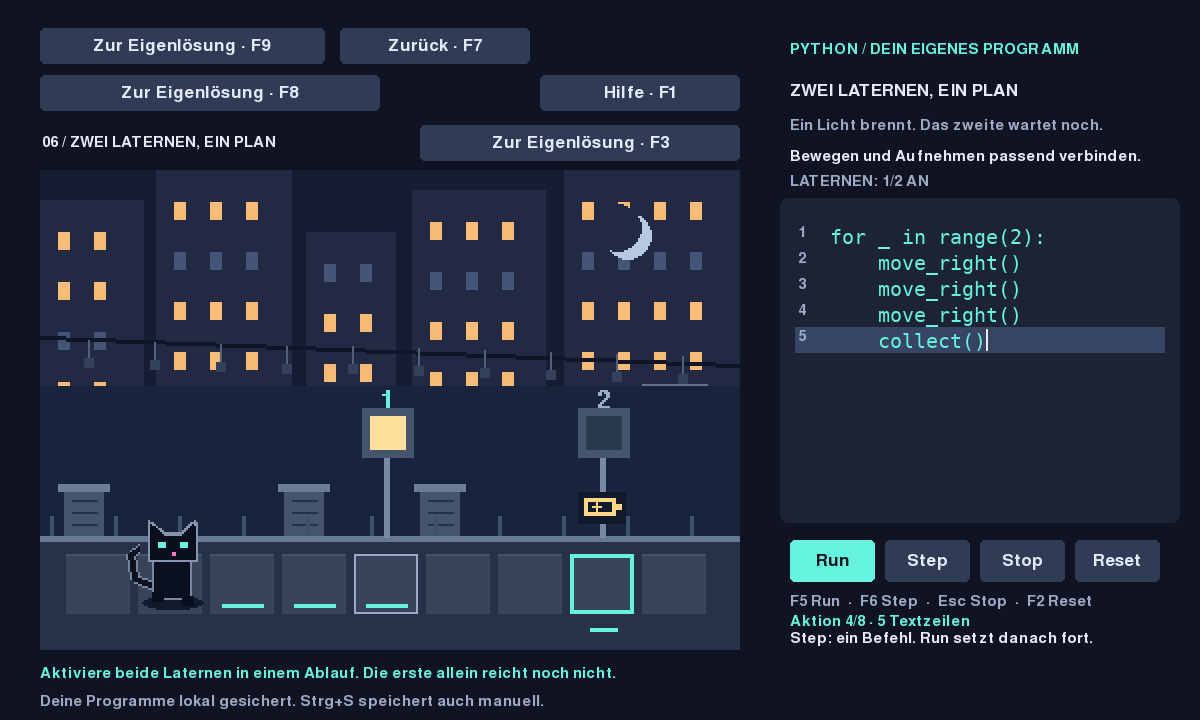
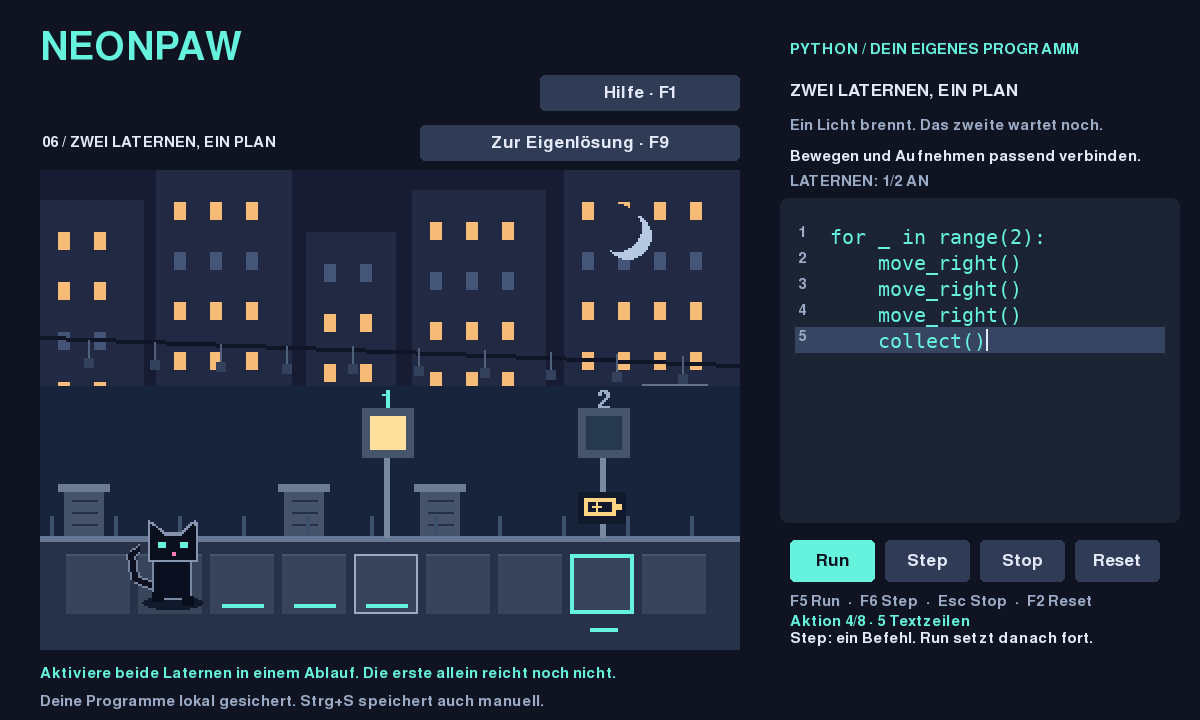
fix: simplify lantern navigation and ignore invisible controls

Changed region(s): [[0.0308, 0.0306, 0.4625, 0.1528], [0.4008, 0.1833, 0.555, 0.2139]]

diff --git a/neonpaw/ui/app.py b/neonpaw/ui/app.py
@@ -57,7 +57,7 @@ class App:
         self.buttons['Transfer'] = pygame.Rect(420, 125, 320, 36)
         self.buttons['Hilfe'] = pygame.Rect(540, 75, 200, 36)
         self.buttons['Abruf'] = pygame.Rect(540, 28, 200, 36)
-        self.buttons['Laternenpaar'] = pygame.Rect(40, 28, 285, 36)
+        self.buttons['Laternenpaar'] = pygame.Rect(420, 125, 320, 36)
         self.buttons['Dachtransfer'] = pygame.Rect(40, 75, 340, 36)
         self.buttons['Dach'] = pygame.Rect(340, 28, 190, 36)
         self.save_path = save_path
@@ -311,13 +311,32 @@ class App:
             self.select_all = False
             self.edited()
 
+    def visible_buttons(self):
+        visible = {}
+        pair_link = self.roof_active and self.pair_unlocked
+        for name, rect in self.buttons.items():
+            if self.pair_active and name in ('Dach', 'Dachtransfer', 'Abruf', 'Transfer'):
+                continue
+            if name == 'Laternenpaar' and not pair_link:
+                continue
+            if name == 'Transfer' and pair_link:
+                continue
+            if name == 'Dachtransfer' and not (self.roof_active and self.roof_transfer_unlocked):
+                continue
+            if name == 'Dach' and not self.recall_available:
+                continue
+            if name == 'Abruf' and (self.roof_active or self.scenario != 1 or not self.recall_available):
+                continue
+            visible[name] = rect
+        return visible
+
     def handle(self, event):
         if event.type == pygame.QUIT:
             self.alive = False
         elif event.type == pygame.MOUSEBUTTONDOWN and event.button == 1:
             w, h = self.screen.get_size()
             pos = event.pos[0] * 1200 / w, event.pos[1] * 720 / h
-            for name, rect in self.buttons.items():
+            for name, rect in self.visible_buttons().items():
                 if rect.collidepoint(pos):
                     self.activate(name)
                     return
@@ -629,15 +648,7 @@ class App:
             y = 225 + (cursor_row - self.scroll) * 26
             pygame.draw.line(self.canvas, INK, (x, y), (x, y + 21), 2)
         self.canvas.set_clip(None)
-        for name, rect in self.buttons.items():
-            if name == 'Laternenpaar' and not (self.roof_active and self.pair_unlocked):
-                continue
-            if name == 'Dachtransfer' and not (self.roof_active and self.roof_transfer_unlocked):
-                continue
-            if name == 'Dach' and not self.recall_available:
-                continue
-            if name == 'Abruf' and (self.roof_active or self.scenario != 1 or not self.recall_available):
-                continue
+        for name, rect in self.visible_buttons().items():
             pygame.draw.rect(self.canvas, CYAN if name == 'Run' else '#303c56', rect, border_radius=5)
             caption = name
             if name == 'Laternenpaar':
@@ -656,8 +667,6 @@ class App:
                 caption = 'Zur Eigenlösung · F3'
             if name == 'Transfer' and self.roof_active:
                 caption = 'Zurück zu deinem Programm · F3'
-            if self.pair_active and name in ('Dach', 'Dachtransfer', 'Transfer'):
-                caption = {'Dach': 'Zurück · F7', 'Dachtransfer': 'Zur Eigenlösung · F8', 'Transfer': 'Zur Eigenlösung · F3'}[name]
             label = self.font.render(caption, True, BG if name == 'Run' else INK)
             self.canvas.blit(label, label.get_rect(center=rect.center))
         self.text('F5 Run  ·  F6 Step  ·  Esc Stop  ·  F2 Reset', (790, 594), MUTED, self.small)

diff --git a/tests/test_pair_ui.py b/tests/test_pair_ui.py
@@ -88,3 +88,25 @@ def test_every_hint_stage_renders_in_transfer_and_pair(app):
     for _ in range(4):
         click(app,'Hilfe'); app.draw()
     assert app.source == ''
+
+
+def test_pair_navigation_has_one_visible_return_and_no_title_overlap(app):
+    finish(app, NEW_CODE)
+    app.activate('Laternenpaar')
+    controls = app.visible_buttons()
+    assert set(controls) == {'Run','Step','Stop','Reset','Hilfe','Laternenpaar'}
+    title = pygame.Rect(40,28,260,45)
+    assert not any(rect.colliderect(title) for rect in controls.values())
+    click(app,'Laternenpaar')
+    assert not app.pair_active and app.source == NEW_CODE
+
+
+def test_hidden_navigation_cannot_intercept_pair_entry_or_exit(app):
+    finish(app, NEW_CODE)
+    click(app,'Laternenpaar')
+    assert app.pair_active
+    # Old roof button area is empty in this mode, not an invisible exit.
+    app.handle(pygame.event.Event(pygame.MOUSEBUTTONDOWN,button=1,pos=app.buttons['Dach'].center))
+    assert app.pair_active
+    click(app,'Laternenpaar')
+    assert not app.pair_active

diff --git a/CURRENT.md b/CURRENT.md
@@ -1,42 +1,42 @@
-# CURRENT — 2026-11-09 — P0-Rettung und Dachtransfer
+# CURRENT — 2026-11-09 — Zwei Laternen und klare Navigation
 
-Ziel: Cyberpunk-Spiel mit selbst geschriebenem Python; ein Integrator.
-Branch: g0/first-cat-action. Extern verifizierter Rettungscommit:
-7d4675c2d1f48e32b132088c0590e17241fdec9c (auf db0ea246 aufgebaut).
-Nachfolgender Abschlusscommit ergänzt SDL-Nachweise und diese Übergabe; SHA mit git log -1 prüfen.
+Projektziel: Cyberpunk-Python-Lernspiel, ein Integrator, keine neue Engine.
+Branch g0/first-cat-action. Ausgangspunkt f5beee9629a614e0df68878ee85b1141d76a7456.
+Extern bestätigter spielbarer Checkpoint: e880e51c075c7b99bfe7f42b171412030d873b37.
+Folgender Abschlusscommit ergänzt Navigationskorrektur und diese Übergabe; SHA mit git log -1 prüfen.
 
-## Bestandsaufnahme
-- TECH_PASS: Einstieg, Batterie/Automat, Transfer, Abruf ohne Vorlage, animierte Pixelkatze, Dachweg mit for/range; sichere AST-Teilmenge und Aktionsbudgets. Run/Step/Stop/Reset.
-- TECH_PASS: geretteter Dachtransfer (F8 nach Dach-Erfolg): Ziel von 6 auf 8, unveränderter eigener Plan, neue Zahl selbst schreiben; falscher Plan gewinnt nicht durch wiederholtes Run. Freiwillige Hinweise, sichtbare Laterne. Vier separate Entwürfe in Schema 3; Schema 1/2 weiter lesbar.
-- M: 134 Tests nach externer Rettung erneut bestanden (evidence/recovery-tests.txt). Vollständiger SDL-Offscreen-Smoke erweitert: F8, zweimal falscher Plan, eigene Korrektur, Step/Stop/Reset, Neustart, beide Dachentwürfe und Rückkehr. evidence/roof-transfer-smoke.txt. Erfolgsbild visuell geprüft.
-- Nicht verifiziert: menschlicher Lernwert/Spielspaß, nativer Windows-/DPI-Test, unabhängiger Sicherheits-Audit. Keine aktuell reproduzierten Testfehler. UI-Zustand wird beim Neustart zurückgesetzt, Programme laufen nie automatisch.
-- Geplant, nicht implementiert: mehrere Laternen in einem Programm verbinden (Bewegen und Aufnehmen sinnvoll kombinieren), keine neue Python-Syntax. Vor Ausbau kurze Produktprüfung anhand des bestehenden Spiels.
+## Fertig / geprüft
+- Einstieg, Batterie/Automat, Transfer, Abruf ohne Vorlage, Dachweg und Dachtransfer.
+- Zwei Laternen nach Dachtransfer mit F9: leerer separater Editor; Ziele 4 und 7,
+  Teilerfolg 1/2 sichtbar, erst 2/2 gewinnt. Zwei gleich lange Strecken erlauben
+  wiederholte Aktionsgruppen, einzelne Befehle oder zwei Schleifen. Keine neue Syntax.
+- Fünf dauerhaft getrennte Entwürfe, Schema 4; Migration von Version 1–3 getestet.
+  Geladener Text startet nie automatisch. Run nach Ende/Stop beginnt frisch,
+  Step→Run setzt fort; Reset löscht keine Programme.
+- 148 Tests grün; evidence/navigation-green.txt. RED: Weltlogik 6, UI/Migration 5,
+  Hinweisregression 1, Navigation 2. Vollständiger SDL-Smoke (navigation-smoke.txt)
+  umfasst alle Aufgaben, falsche Pläne, Stop/Reset, Teilerfolg, Erfolg und Neustart.
+- Bestehende AST- und Ressourcenlimits unverändert, Negativtests enthalten.
+- Navigationsfehler korrigiert: ein sichtbarer Rückweg im Paarabschnitt, freier Titel;
+  unsichtbare Buttons können keine Klicks abfangen. Anzeige/Klick verwenden dieselbe Auswahl.
 
-## Rettung / Infrastruktur
-Bestehende Umgebung wieder erreichbar, kein Workspaceersatz durch den Agenten.
-Alle sechs geänderten/neuen Dateien gefunden. Vollarchiv einschließlich Git,
-untracked und ignored: /workspace/Catworld-recovery-2026-11-09.tar.gz;
-3078 Dateien per SHA-256 gegen Original verglichen. Bundle gleichen Namens .bundle
-geprüft. GitHub-Remote vor Rettung db0ea246, Push auf 7d4675c bestätigt.
-Cloud-Startfehler war beobachtet, Ursache unbekannt; Shell/Mount/Dateien jetzt erreichbar.
-Sandbox konnte Proxy nicht erreichen; genehmigter äußerer Netzwerkaufruf erfolgreich.
-Keine Datenlöschung, Resets, anderen Projekte, Dienste oder Scheduler verändert.
-Nur Test-CI; kein kontinuierlicher Codex-Entwicklungsscheduler.
+## Qualitätsprüfung: drei größte konkrete Schwächen
+1. BEHOBEN: überdeckter Titel und redundante Rückwege; zuvor sogar unsichtbar klickbare
+   Controls. Sichtprüfung und zwei reproduzierte RED-Tests, danach GREEN/SDL.
+2. OFFEN: kein Undo. Strg+A und versehentliche Texteingabe ersetzen den Entwurf sofort;
+   Autosave ist keine intuitive Rücknahme. Nächster kleiner Produktbatch.
+3. OFFEN: Hilfepanel verdeckt einen Teil der Welt, statt Beobachtung daneben zu lassen.
+   Sichtbar im Screenshot; menschliche Frustration daraus ist noch nicht nachgewiesen.
+Eigener Fehler: breiter Textersatz verschachtelte alte Hinweislisten versehentlich;
+SDL fand den Absturz, korrigiert und durch Rendering aller Hilfestufen abgesichert.
+Menschliches Verständnis/Spielspaß, nativer Windows-/DPI-Test und externer Security-Audit offen.
 
-## Wiederaufnahme
+## Sicherung / Wiederaufnahme
+Unverändertes Recovery-Archiv: /workspace/Catworld-recovery-2026-11-09.tar.gz
+(3078 Dateien per SHA-256 geprüft), weitere versionierte Bundles unter /workspace.
+Keine bewusst ungesicherte WIP-Arbeit; tatsächlicher git status gilt zuerst.
+Nur GitHub-Test-CI, kein kontinuierlicher Codex-Scheduler. Keine anderen Projekte angefasst.
 Erster Befehl: `cd /workspace/Catworld && git status --short --branch && git log -5 --oneline`
-1. Lokalen Stand/Backups sichern, Fetch und Remote/Reviews vergleichen; Dachtransfer nicht erneut entwickeln.
-2. `.venv/bin/python -m pytest -q` und `SDL_VIDEODRIVER=offscreen SDL_AUDIODRIVER=dummy .venv/bin/python -m tests.smoke_app` bei Codeänderungen reproduzieren.
-3. Als nächsten Produktbatch mehrere Laternen in einem Ablauf untersuchen; vorher den aktuellen Stand extern sichern. Bei Limit zuerst Checkpoint statt Feature.
-Alle zum Abschluss gehörenden Änderungen werden committed; keine absichtlich zurückgelassene WIP-Arbeit. Tatsächlicher git status gilt vor dieser Aussage. Das Rettungsarchiv bleibt zusätzlich unverändert erhalten.
-
-## 2026-11-09 — Zwei Laternen implementiert
-Ausgangspunkt f5beee9, Weltlogik d7c3f9f extern verifiziert. Neues Gameplay: nach
-Dachtransfer F9, leerer separater Editor, Laternen auf Feld 4 und 7. Erste Aktivierung
-ist Teilerfolg; zweite verbindet beide Lichter. Mehrere gültige Programme ohne neue
-Syntax. Schema 4 erhält alle fünf Texte; Migration von 1–3 getestet.
-146 Tests grün, voller SDL-Smoke einschließlich beider Laternen und Neustart.
-Belege evidence/two-lanterns-*.txt. Eigener Hinweislisten-Fehler im SDL-Smoke erkannt,
-korrigiert und durch Renderingtest abgesichert. Menschliches Lernen bleibt offen.
-Nächster Batch: redundante Rückkehrbuttons und verdeckten Titel im Paarabschnitt
-beseitigen; sichtbare und klickbare Buttons aus derselben Auswahl ableiten.
+1. Arbeit/Backups prüfen und sichern, Fetch/Reviews/Remote vergleichen.
+2. NEXT_TASK.md: RED für versehentlichen Textersatz und Undo, dann minimal implementieren.
+3. Vollsuite + SDL-Smoke, Commit/Bundle/Push/Remote prüfen; bei Limit zuerst Checkpoint.

diff --git a/NEXT_TASK.md b/NEXT_TASK.md
@@ -1,6 +1,9 @@
-# Nächste Aufgabe: klare Navigation im Zwei-Laternen-Abschnitt
-Zwei-Laternen-Gameplay ist implementiert, 146 Tests plus SDL-Smoke grün.
-Nicht erneut entwickeln. Nächster ausführbarer Schritt: RED-UI-Test, dass im
-Paarabschnitt genau ein sichtbarer Rückweg existiert und unsichtbare Buttons keine
-Klicks abfangen. Dann redundante Navigation entfernen und Titel freihalten.
-Git-Status/Remote zuerst prüfen; jeden abgeschlossenen Batch extern sichern.
+# Nächste Aufgabe: versehentliche Codeänderungen rückgängig machen
+Zwei-Laternen-Abschnitt ist fertig, 148 Tests und voller SDL-Smoke grün.
+Nicht erneut implementieren. Zuerst Git/Remote und neue Reviews prüfen.
+
+Nächster ausführbarer Schritt: RED-UI-Test für Strg+A → Texteingabe → Strg+Z:
+die eigene Lösung muss zurückkommen, Ausführung bleibt gestoppt. Eine kleine,
+begrenzte Undo-Historie je Editor; Rücknahme darf keine fremden Entwürfe einmischen.
+Backspace/Delete und Einrückung berücksichtigen. Kein neues Framework, kein Cloudsync.
+Danach Regression/SDL, Checkpoint und Remote-Verifikation. Menschlichen Nutzen offenlassen.

diff --git a/README.md b/README.md
@@ -36,6 +36,11 @@ SDL-Oberfläche offscreen gerendert und über ihre Ereigniswarteschlange geprüf
 5. **Dachweg / F7:** die weiter entfernte Dachlaterne erreichen. Erst bekannte Schritte
    ausprobieren; nach erlebter Wiederholung bietet F1 freiwillige Hilfe zu `for`/`range`.
    Schreibe deinen Plan selbst. Zurück / F7 erhält deinen bisherigen Entwurf.
+6. **Nächste Laterne / F8:** nach Dach-Erfolg den eigenen Plan an das fernere Ziel anpassen.
+7. **Zwei Laternen / F9:** nach Dachtransfer-Erfolg aus leerem Editor beide Lichter
+   mit einem Programm verbinden. Die erste Aktivierung ist nur ein Teilerfolg.
+   Bewegung und `collect()` reichen; mehrere Programme sind gültig. F9 kehrt zur
+   bisherigen Eigenlösung zurück. Alle fünf Entwürfe bleiben auch nach Neustart erhalten.
 
 Hilfen bleiben freiwillig. Tippfehler wie `move_rigth()` geben einen konkreten Hinweis,
 ändern den Text aber nicht. Nox bewegt sich animiert, blinzelt und reagiert auf Erfolg;

diff --git a/PROGRESS_LOG.md b/PROGRESS_LOG.md
@@ -95,3 +95,10 @@ Weltlogik RED 6, GREEN 140; checkpoint d7c3f9f gepusht und verifiziert.
 UI/Persistenz RED 5, GREEN 146 einschließlich zusätzlichem Hinweis-Renderingtest.
 SDL-Smoke: beide dunklen Ziele, erste Aktivierung, Stop/Reset, Step→Run, kompletter
 Erfolg, Neustart und erhaltene frühere Entwürfe. Kein Menschentest.
+
+## 2026-11-09 — Navigationsqualität nach zwei Laternen
+Spielbarer Checkpoint e880e51 extern bestätigt. Drei Schwächen geprüft: redundante
+Navigation/Titelüberdeckung, fehlendes Undo, Weltverdeckung durch Hinweise.
+Erste korrigiert: sichtbare Controls gemeinsam für Renderer und Maus-Hit-Test;
+Paarabschnitt hat einen Rückweg. Zwei RED-Tests, 148 GREEN und kompletter SDL-Smoke.
+README und Sicherheits-/Speicherdokumentation aktualisiert. Keine Sprach-/Budgeterweiterung.

diff --git a/G0_SECURITY.md b/G0_SECURITY.md
@@ -52,3 +52,9 @@ Dies bleibt keine allgemeine Sandbox für fremde Python-Programme.
 Dachweg-Speicherformat: Version 2 ergänzt einen separaten Dachentwurf; Version 1
 bleibt lesbar. Alle drei Programme teilen die Dateigröße von höchstens 65536 Bytes;
 diese Grenze wird auch vor dem Schreiben der UTF-8-JSON-Datei geprüft.
+
+Zwei-Laternen-Abschnitt: World ergänzt nur ein optionales zweites Ziel und einen
+Teilerfolgsstatus. Der Parser und alle Aktionsbudgets bleiben unverändert. Erst beide
+Aktivierungen setzen powered. Neue Versuche starten ohne akkumulierten Fortschritt.
+Speicherversion 4 ergänzt den fünften Editor; Versionen 1–3 werden weiterhin validiert
+und verlustfrei geladen. Gesamtdateigrenze bleibt 65536 Bytes, je Text 4096 Zeichen.

diff --git a/LEARNINGS.md b/LEARNINGS.md
@@ -56,3 +56,9 @@ Zwei gleich lange Abschnitte machen Bewegung+Aufnehmen zu einem wiederholbaren
 Ablauf. Ausgeschriebene Befehle und zwei getrennte Schleifen bleiben gültig; keine
 Lösungsform erzwingen. Ein eigener breiter Textersatz beschädigte die alte
 Hinweislisten-Auswahl; SDL fand den Fehler, gezielter Renderingtest sichert ihn ab.
+
+## 2026-11-09 — Unsichtbar muss auch unklickbar sein
+Separat gepflegte Sichtbarkeitsbedingungen ließen verborgene Navigation aktiv.
+Gemeinsame Button-Auswahl beseitigt diese Divergenz; Regression prüft tatsächliche
+Mausereignisse. Mehrere identische Rückwege brachten keinen zusätzlichen Nutzen;
+ein sichtbarer Rückweg reicht, vorhandene Tastenkürzel bleiben kompatibel.
